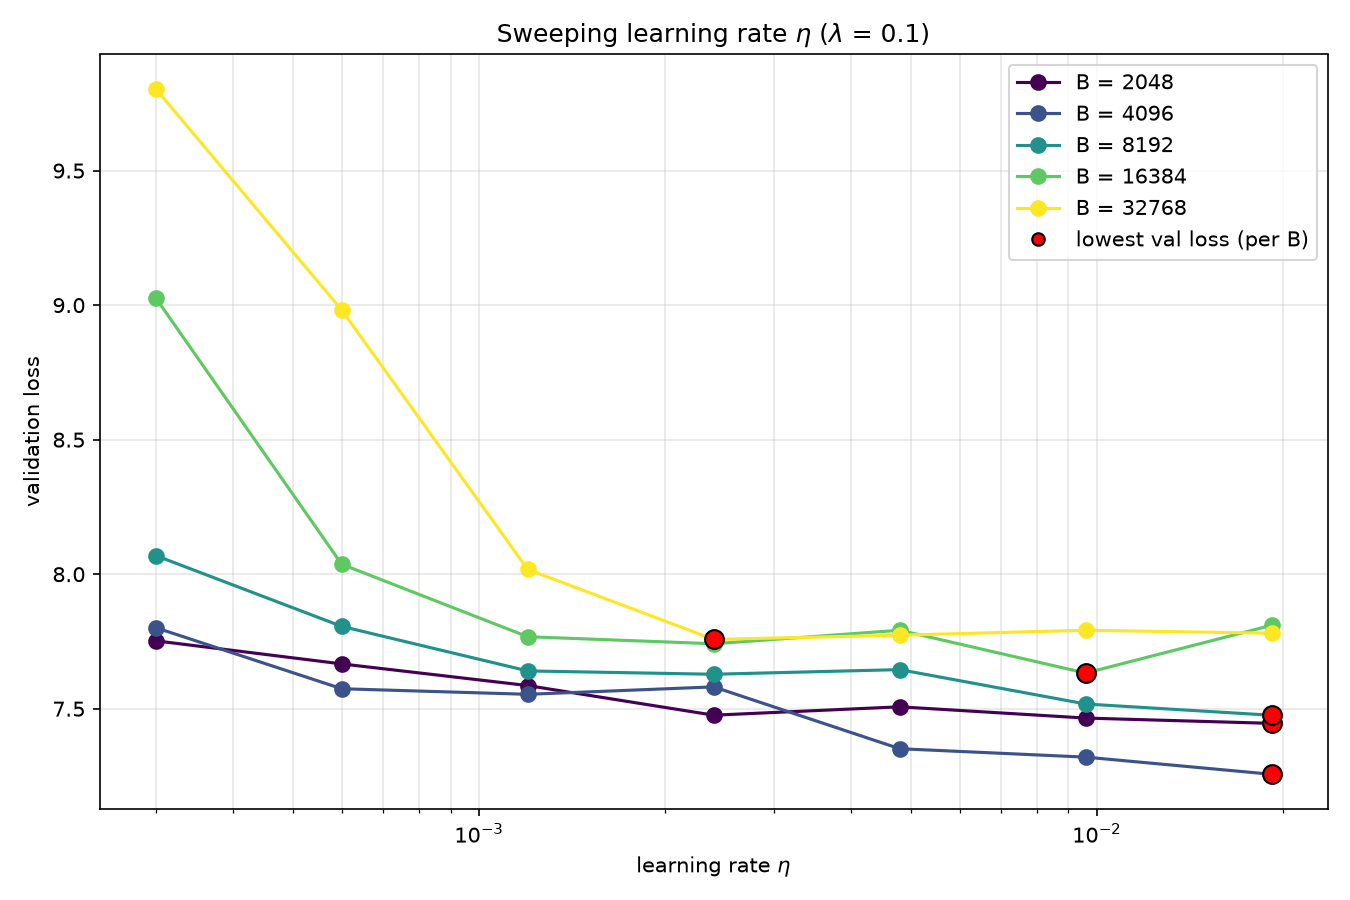
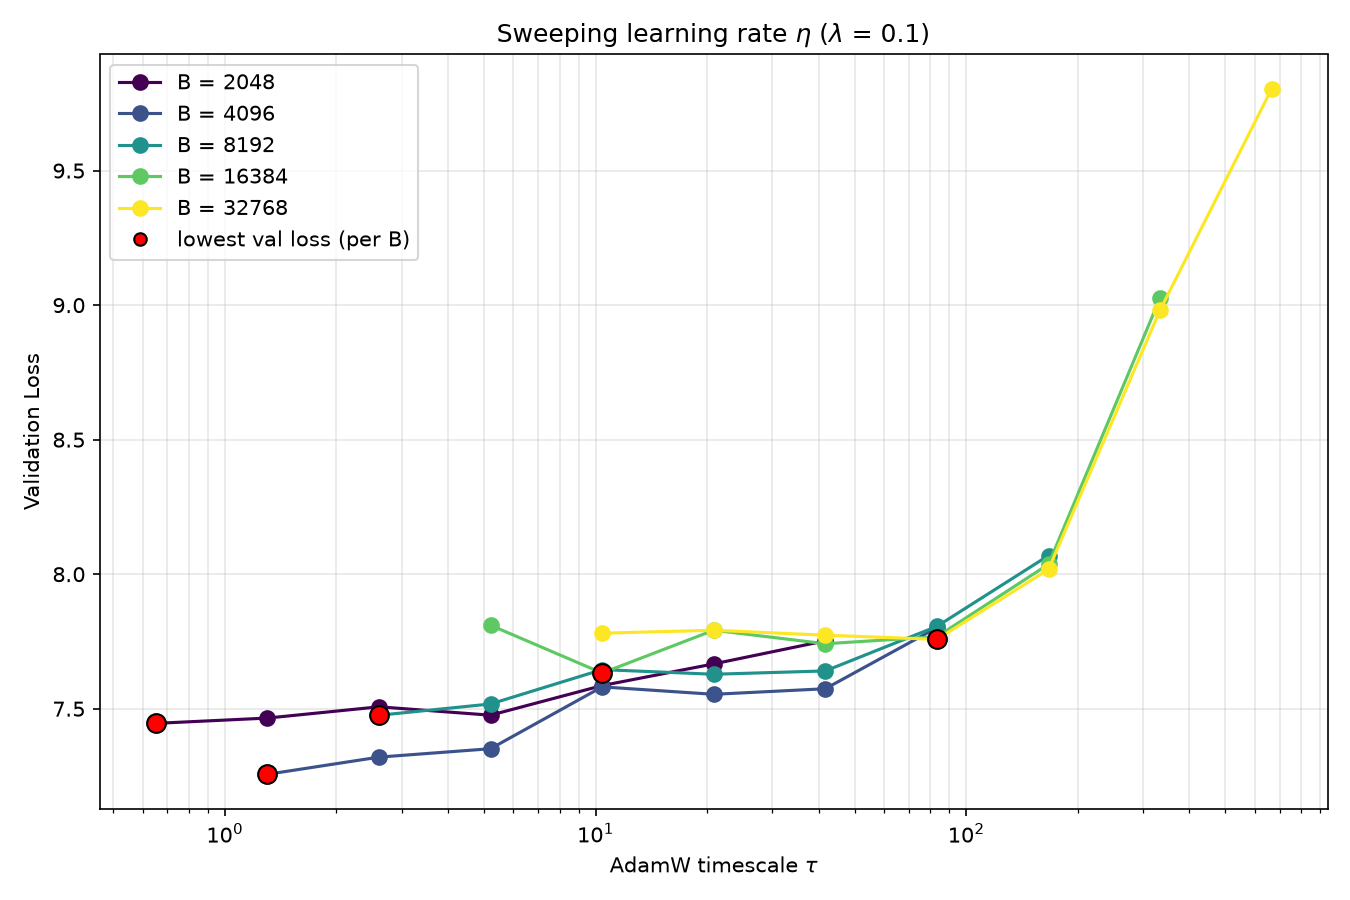
Fix sweep plots x-axis to be tau = 1 / (lr * wd * steps)

diff --git a/ga_plot_sweep_b_wd_lr.py b/ga_plot_sweep_b_wd_lr.py
@@ -9,7 +9,7 @@ Expects run folders named like  B{batch_size}_LRp{lr_digits}_WD_{wd_label}, each
  
 Plots (saved to --out_dir):
     sweeping_weight_decay.png   val loss vs AdamW timescale tau = 1/(wd*lr*T), runs with lr == --wd_sweep_lr
-    sweeping_learning_rate.png  val loss vs learning rate, runs with wd == --lr_sweep_wd
+    sweeping_learning_rate.png  val loss vs AdamW timescale tau, runs with wd == --lr_sweep_wd
     optimal_hp.png              optimal weight decay and optimal learning rate vs batch size
  
 Usage:
@@ -102,17 +102,17 @@ def plot_sweep(groups, xkey, xlabel, ylabel, title, out_path):
     """One viridis line per batch size (smallest purple, largest yellow); red marker at each minimum."""
     batch_sizes = sorted(groups)
     colors = plt.get_cmap("viridis")(np.linspace(0, 1, len(batch_sizes)))
-
+ 
     fig, ax = plt.subplots(figsize=(9, 6))
     for bs, color in zip(batch_sizes, colors):
         pts = sorted(groups[bs], key=lambda r: r[xkey])
         xs = np.array([r[xkey] for r in pts])
         ys = np.array([r["loss"] for r in pts])
-
+ 
         ax.plot(xs, ys, "-o", color=color, markersize=7, label=f"B = {bs}")
         i = int(np.argmin(ys))
         ax.plot(xs[i], ys[i], "o", color="red", markersize=9, markeredgecolor="black", zorder=5)
-
+ 
     ax.plot([], [], "o", color="red", markeredgecolor="black", label="lowest val loss (per B)")
     ax.set_xscale("log")
     ax.set_xlabel(xlabel)
@@ -123,12 +123,12 @@ def plot_sweep(groups, xkey, xlabel, ylabel, title, out_path):
     fig.tight_layout()
     fig.savefig(out_path, dpi=150)
     plt.close(fig)
-
-
+ 
+ 
 def plot_optimal_hp(best_wd, best_lr, out_path):
     fig, ax = plt.subplots(figsize=(8, 6))
     all_bs = sorted(set(best_wd) | set(best_lr))
-
+ 
     if best_wd:
         bs = sorted(best_wd)
         ax.plot(bs, [best_wd[b]["wd"] for b in bs], "-x", color="tab:blue",
@@ -137,7 +137,7 @@ def plot_optimal_hp(best_wd, best_lr, out_path):
         bs = sorted(best_lr)
         ax.plot(bs, [best_lr[b]["lr"] for b in bs], "-x", color="tab:orange",
                 markersize=10, markeredgewidth=2, label=r"Learning Rate $\eta$")
-
+ 
     ax.set_xscale("log", base=2)
     ax.set_yscale("log")
     ax.set_xticks(all_bs)
@@ -150,8 +150,8 @@ def plot_optimal_hp(best_wd, best_lr, out_path):
     fig.tight_layout()
     fig.savefig(out_path, dpi=150)
     plt.close(fig)
-
-
+ 
+ 
 def print_table(title, groups, best, xkey, xname):
     print(f"\n{title}")
     print(f"{'B':>6} {xname:>10} {'lr':>9} {'wd':>7} {'val_loss':>10}")
@@ -161,10 +161,10 @@ def print_table(title, groups, best, xkey, xname):
             mark = "  <- best" if r is best[bs] else ""
             print(f"{bs:>6} {r[xkey]:>10.4g} {r['lr']:>9.5f} {r['wd']:>7.4g} {r['loss']:>10.4f}{mark}")
         print()
-
-
+ 
+ 
 # ----------------------------------------------------------------------------- main
-
+ 
 def main():
     parser = argparse.ArgumentParser(description=__doc__, formatter_class=argparse.RawDescriptionHelpFormatter)
     parser.add_argument("--log_dir", default="my_logs")
@@ -177,45 +177,46 @@ def main():
                         help="min = lowest val loss during training; last = mean of last --last_k evals")
     parser.add_argument("--last_k", type=int, default=5)
     args = parser.parse_args()
-
+ 
     runs = collect_runs(args.log_dir, args.metric, args.last_k)
     if not runs:
         raise SystemExit(f"No matching runs with val loss found in {args.log_dir}")
     os.makedirs(args.out_dir, exist_ok=True)
-
-    ylabel = "validation loss" if args.metric == "min" else f"validation loss (mean of last {args.last_k} evals)"
-
+ 
+    ylabel = "Validation Loss"
+    xlabel = r"AdamW timescale $\tau$"
+ 
     wd_groups = group_by_bs([r for r in runs if np.isclose(r["lr"], args.wd_sweep_lr)])
     lr_groups = group_by_bs([r for r in runs if np.isclose(r["wd"], args.lr_sweep_wd)])
     best_wd = best_per_bs(wd_groups)
     best_lr = best_per_bs(lr_groups)
-
+ 
     if wd_groups:
         p = os.path.join(args.out_dir, "sweeping_weight_decay.png")
-        plot_sweep(wd_groups, "tau", r"AdamW timescale $\tau = 1 / (\lambda \, \eta \, T)$", ylabel,
+        plot_sweep(wd_groups, "tau", xlabel, ylabel,
                    rf"Sweeping weight decay $\lambda$ ($\eta$ = {args.wd_sweep_lr:g})", p)
         print(f"[saved] {p}")
     else:
         print(f"[skip] weight decay plot: no runs with lr={args.wd_sweep_lr:g}")
-
+ 
     if lr_groups:
         p = os.path.join(args.out_dir, "sweeping_learning_rate.png")
-        plot_sweep(lr_groups, "lr", r"learning rate $\eta$", ylabel,
+        plot_sweep(lr_groups, "tau", xlabel, ylabel,
                    rf"Sweeping learning rate $\eta$ ($\lambda$ = {args.lr_sweep_wd:g})", p)
         print(f"[saved] {p}")
     else:
         print(f"[skip] learning rate plot: no runs with wd={args.lr_sweep_wd:g}")
-
+ 
     if best_wd or best_lr:
         p = os.path.join(args.out_dir, "optimal_hp.png")
         plot_optimal_hp(best_wd, best_lr, p)
         print(f"[saved] {p}")
-
+ 
     if wd_groups:
         print_table(f"Weight decay sweep (lr = {args.wd_sweep_lr:g})", wd_groups, best_wd, "tau", "tau")
     if lr_groups:
-        print_table(f"Learning rate sweep (wd = {args.lr_sweep_wd:g})", lr_groups, best_lr, "lr", "lr")
-
-
+        print_table(f"Learning rate sweep (wd = {args.lr_sweep_wd:g})", lr_groups, best_lr, "tau", "tau")
+ 
+ 
 if __name__ == "__main__":
     main()
